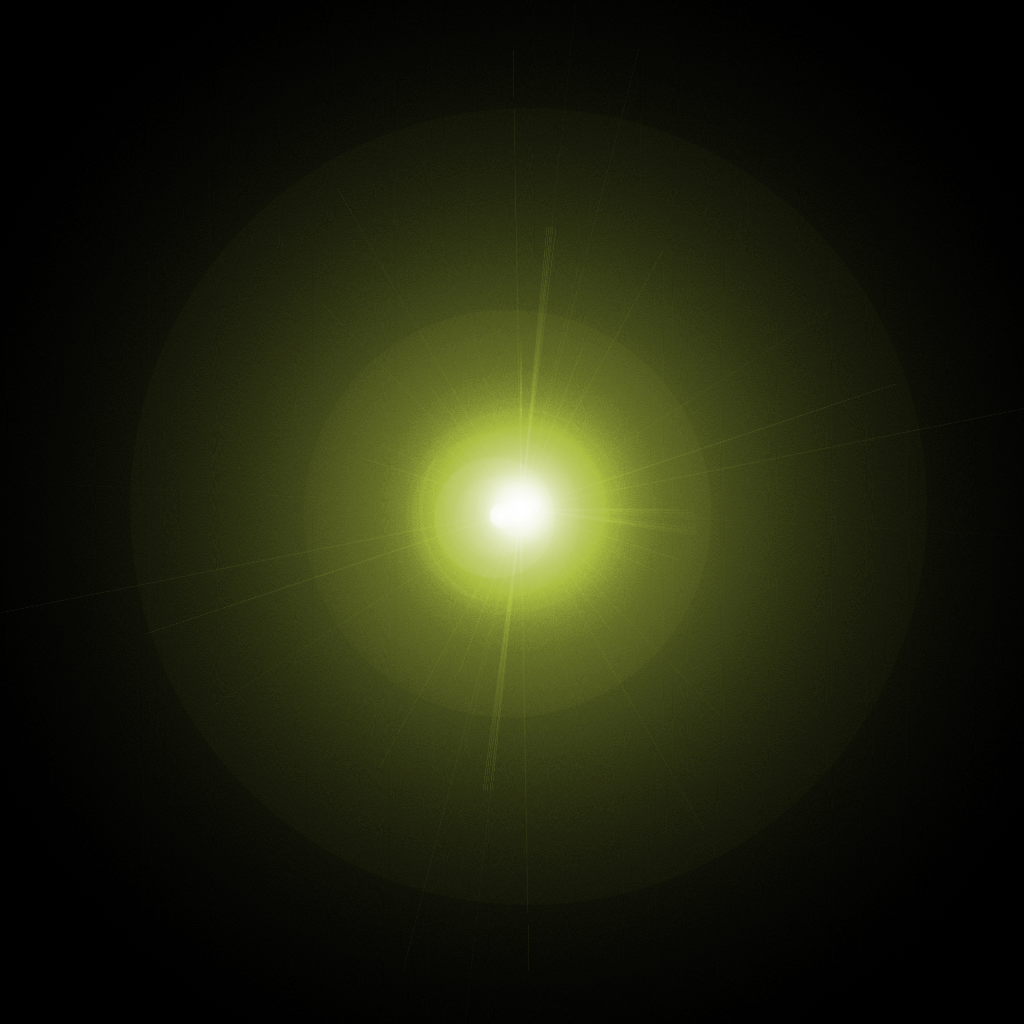
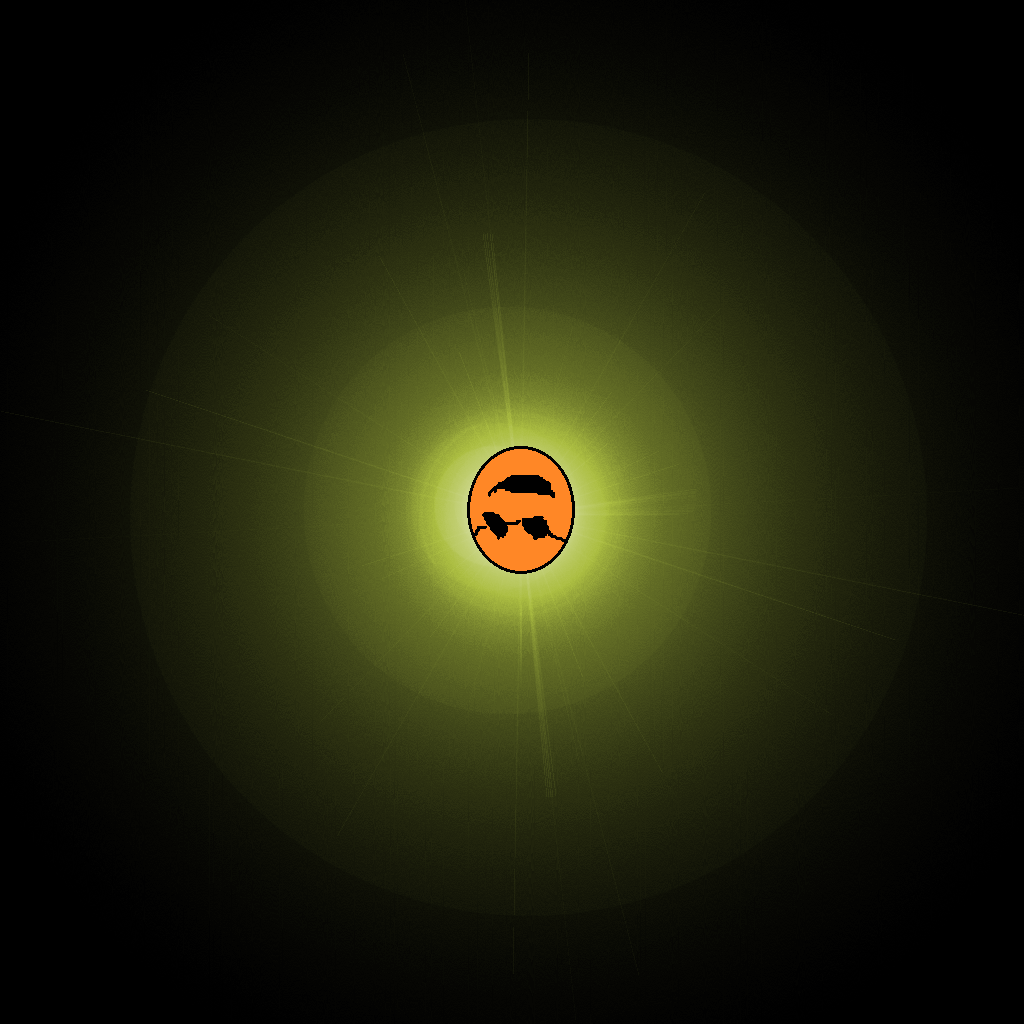
smiley particles and sun

Changed region(s): [[0.4375, 0.4375, 0.5625, 0.5625]]

diff --git a/RonaldTheSnake/RonaldTheSnake/ParticleSystem.cs b/RonaldTheSnake/RonaldTheSnake/ParticleSystem.cs
@@ -32,7 +32,7 @@ namespace RonaldTheSnake
 
         Dictionary<string, Texture2D> textureDictionary;
 
-        Vector2 gravity = new Vector2(0.0f, 0.05f);
+        Vector2 gravity = new Vector2(0.0f, 0.0f);
 
         /// <summary>
         /// This constructor should only be used by the XML serializer.
@@ -67,7 +67,10 @@ namespace RonaldTheSnake
             //textureDictionary["tank_tire"] = content.Load<Texture2D>("tank_tire");
             //textureDictionary["tank_top"] = content.Load<Texture2D>("tank_top");
             //textureDictionary["fire"] = content.Load<Texture2D>("fire");
-            textureDictionary["smoke"] = content.Load<Texture2D>("smoke");
+            textureDictionary["diamon_white"] = content.Load<Texture2D>("diamon_white");
+            textureDictionary["diamon_grey"] = content.Load<Texture2D>("diamon_grey");
+            textureDictionary["diamon_grey1"] = content.Load<Texture2D>("diamon_grey1");
+            textureDictionary["diamon_grey2"] = content.Load<Texture2D>("diamon_grey2");
         }
 
         /// <summary>
@@ -164,22 +167,87 @@ namespace RonaldTheSnake
         {
             Particle p = null;
 
+            float life = 500f;
+            float scaleofFace = 0.25f;
+
+            //Create circle
             for (int i = 0; i < 16; ++i)
             {
                 p = CreateParticle();
                 p.Position = position;
                 p.RotationRate = -6.0f + 12.0f * (float)random.NextDouble();
-                p.Scale = 0.05f;
+                p.Scale = 1.2f;
                 p.ScaleRate = 0.0005f;// *(float)random.NextDouble();
-                p.Alpha = 2.0f;
+                p.Alpha = 1.0f;
                 p.AlphaRate = -0.25f;
-                p.Velocity.X = -0.2f + 0.4f * (float)random.NextDouble();
-                p.Velocity.Y = -0.2f + -0.8f * (float)random.NextDouble();
-                p.TextureName = "smoke";
-                p.Texture = textureDictionary[p.TextureName];
-                p.Life = 2000.0f;
+                double radians = (((float)i / 16)) * (Math.PI * 2);
+                p.Velocity.X = (float)Math.Cos(radians) * scaleofFace;
+                p.Velocity.Y = (float)Math.Sin(radians) * scaleofFace;
+                //p.Velocity.X = -0.2f + 0.4f * (float)random.NextDouble();
+                //p.Velocity.Y = -0.2f + -0.8f * (float)random.NextDouble();
+                p.Texture = PickRandomTextureFromDictionary();
+                p.TextureName = p.Texture.Name;
+                p.Life = life;
                 p.Color = new Color((float)random.NextDouble(), (float)random.NextDouble(), (float)random.NextDouble());
             }
+
+            //create eyes
+            for (int i = 0; i < 2; i++)
+            {
+                p = CreateParticle();
+                p.Position = position;
+                p.RotationRate = -6.0f + 12.0f * (float)random.NextDouble();
+                p.Scale = 1.2f;
+                p.ScaleRate = 0.0005f;// *(float)random.NextDouble();
+                p.Alpha = 1.0f;
+                p.AlphaRate = -0.25f;
+                double radians;
+                if (i == 0)
+                    radians = 4;
+                else
+                    radians = 5.5f;
+
+                p.Velocity.X = 0.8f * (float)Math.Cos(radians) * scaleofFace;
+                p.Velocity.Y = 0.6f * (float)Math.Sin(radians) * scaleofFace;
+                p.Texture = PickRandomTextureFromDictionary();
+                p.TextureName = p.Texture.Name;
+                p.Life = life;
+                p.Color = new Color((float)random.NextDouble(), (float)random.NextDouble(), (float)random.NextDouble());
+            }
+
+            for (int i = 0; i < 8; i++)
+            {
+                p = CreateParticle();
+                p.Position = position;
+                p.RotationRate = -6.0f + 12.0f * (float)random.NextDouble();
+                p.Scale = 1.2f;
+                p.ScaleRate = 0.0005f;// *(float)random.NextDouble();
+                p.Alpha = 1.0f;
+                p.AlphaRate = -0.25f;
+                double radians = (((float)i / 16)) * (Math.PI * 2);
+                p.Velocity.X = 0.5f * (float)Math.Cos(radians) * scaleofFace;
+                p.Velocity.Y = 0.5f * (float)Math.Sin(radians) * scaleofFace;
+                //p.Velocity.X = -0.2f + 0.4f * (float)random.NextDouble();
+                //p.Velocity.Y = -0.2f + -0.8f * (float)random.NextDouble();
+                p.Texture = PickRandomTextureFromDictionary();
+                p.TextureName = p.Texture.Name;
+                p.Life = life;
+                p.Color = new Color((float)random.NextDouble(), (float)random.NextDouble(), (float)random.NextDouble());
+            }
+        }
+
+        private Texture2D PickRandomTextureFromDictionary()
+        {
+            Texture2D result;
+            List<Texture2D> tempList = new List<Texture2D>();
+            foreach (Texture2D texture in textureDictionary.Values)
+            {
+                tempList.Add(texture);
+            }
+
+            result = tempList[random.Next(tempList.Count - 1)];
+
+            return result;
         }
 
         #region IXmlSerializable Members

diff --git a/RonaldTheSnake/RonaldTheSnake/World/SnakeWorld.cs b/RonaldTheSnake/RonaldTheSnake/World/SnakeWorld.cs
@@ -122,7 +122,7 @@ namespace RonaldTheSnake.World
 
             ppm = new PostProcessingManager(ScreenManager.Game);
 
-            rays = new CrepuscularRays(ScreenManager.Game, Vector2.One * .5f, "flare4", 0.35f, .97f, .97f, .3f, .20f);
+            rays = new CrepuscularRays(ScreenManager.Game, Vector2.One * .5f, "flare4", 0.35f, .87f, .97f, .3f, .20f);
 
             ppm.AddEffect(rays);
 
@@ -449,7 +449,7 @@ namespace RonaldTheSnake.World
             tiledMap.Draw(ScreenManager.SpriteBatch, tiledMap.Bounds);
 
 
-            particleSys.Draw();
+            
             foreach (var cell in map.Cells)
             {
 
@@ -480,6 +480,8 @@ namespace RonaldTheSnake.World
                 //ScreenManager.SpriteBatch.DrawString(gameFont, "X: " + player.Head.Position.X + Environment.NewLine + "Y: "
                 //    + player.Head.Position.Y, new Vector2(640, 600), Color.White);
             }
+
+            particleSys.Draw();
 
             //if (foodCount == 1)
             //{
